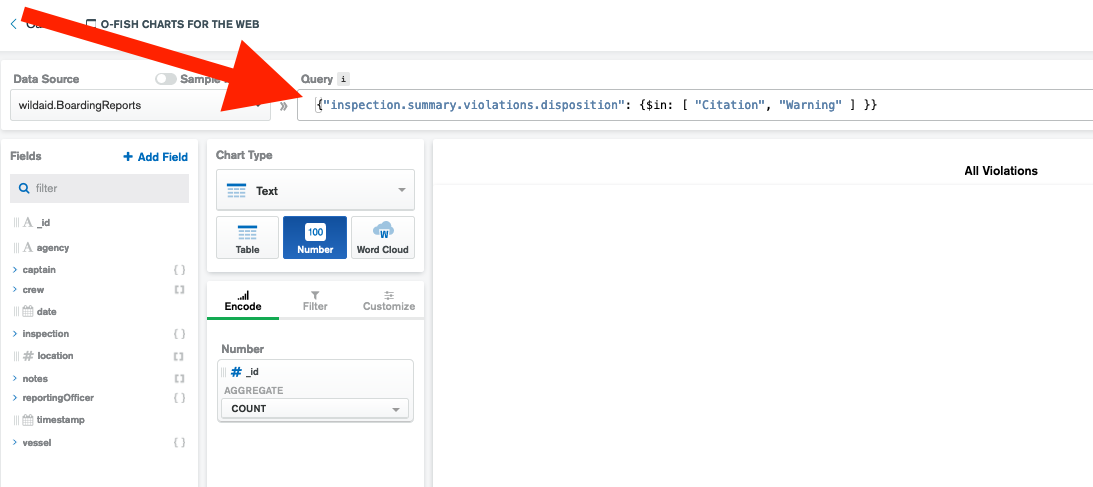
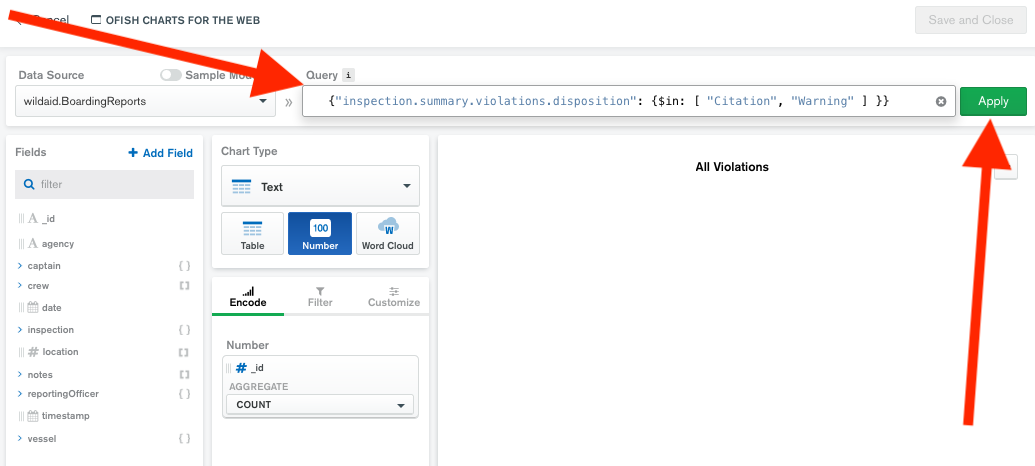
Finished the number compliance charts
Still need to do map and donut chart.

diff --git a/_posts/build_charts/2020-06-12-Create-Compliance2.md b/_posts/build_charts/2020-06-12-Create-Compliance2.md
@@ -1,0 +1,73 @@
+---
+layout: post
+title: "Create Compliance Charts - Percentage"
+date: 2020-06-12 06:00:00 -0400
+categories: charts
+site: build
+---
+
+On this page, you will make the Compliance Rate chart - shown as the percentage below:<BR>
+<img src="/assets/images/ComplianceCharts.png" style="border:1px solid black" width="70%"><BR><BR>
+
+1. On the Charts Dashboard, click "Add Chart"<BR>
+<img src="/assets/images/AddChart.png" style="border:1px solid black" width="70%"><BR><BR>
+
+1. Set the title to "Compliance Rate"<BR>
+<img src="/assets/images/CRTitle.png" style="border:1px solid black" width="100%"><BR><BR>
+1. Set the Data Source to wildaid.BoardingReports
+<img src="/assets/images/ChooseBRDataSource.png" style="border:1px solid black" width="100%"><BR><BR>
+1. Choose a Chart type of Text:
+<img src="/assets/images/TableChartType.png" style="border:1px solid black" width="100%"><BR><BR>
+
+1. Choose a Chart subtype of Number:
+<img src="/assets/images/NumberChart.png" style="border:1px solid black" width="100%"><BR><BR>
+
+1. We need to calculate the percentage of a subset of data as compared to the total amount of data, which we cannot do with a calculated field. However, we can do this with an aggregation, which we can paste into the Query field, and then click "Apply":<BR><BR>
+`[{$group: { _id: null, total: { $sum: 1 },` <BR>
+  `justCompliant: { $sum: { $cond: { ` <BR>
+        `'if': {$and: [ ` <BR>
+          `{$ifNull: ['$inspection.summary.violations.disposition',0]}, ` <BR>
+          `{$or: [ ` <BR>
+          `{$in: ['Warning','$inspection.summary.violations.disposition']}, ` <BR>
+          `{$in: ['Citation','$inspection.summary.violations.disposition']} ` <BR>
+          `] } ] }, ` <BR>
+        `'then': 0, 'else': 1 ` <BR>
+      `} } }` <BR>
+`}}, {$project: {` <BR>
+  `percentage: { $divide: [ '$justCompliant', '$total' ] },` <BR>
+  `inspection: 1, justCompliant: 1, total: 1` <BR>
+`}}]`<BR>
+<img src="/assets/images/ComplianceRateQuery.png" style="border:1px solid black" width="100%"><BR><BR>
+
+1. You will see your fields have changed to an ID and three numbers - justCompliant, percentage, and total:<BR>
+<img src="/assets/images/NewFields.png" style="border:1px solid black" width="50%"><BR><BR>
+
+1. Drag "percentage" to the "Number" field, making sure that the aggregate is by "SUM":<BR>
+<img src="/assets/images/PercentageDrag.png" style="border:1px solid black" width="100%"><BR><BR>
+
+1. The field is in decimal value:<BR>
+<img src="/assets/images/Percentage.png" style="border:1px solid black" width="100%"><BR><BR>
+
+1. Click "Customize", then percentage, then toggle Decimals and set it to 2:<BR>
+<img src="/assets/images/Decimals.png" style="border:1px solid black" width="100%"><BR><BR>
+
+1. Toggle the Multiplier and set it to 100.<BR>
+<img src="/assets/images/Multiplier.png" style="border:1px solid black" width="100%"><BR><BR>
+
+1. Toggle the Suffix and set it to be %:<BR>
+<img src="/assets/images/Suffix.png" style="border:1px solid black" width="100%"><BR><BR>
+
+And you should see the percentage in the window. Click "Save and Close"
+<img src="/assets/images/CloseSave.png" style="border:1px solid black" width="100%"><BR><BR>
+
+1. On your dashboard, mouse over the chart until you see the ellipses. Click on the ellipses and select "Embed Chart":
+<img src="/assets/images/ClickBCEmbedMenu.png" style="border:1px solid black" width="100%"><BR><BR>
+
+1. Select the "Authenticated" section, and make sure "Enabled authenticated access" is set to "ON", and copy the Chart ID:
+<img src="/assets/images/CopyBDChart.png" style="border:1px solid black" width="100%"><BR><BR>
+
+1. Select "Close" to close the "Embed Chart" window.<BR><BR>
+
+1. Paste the Chart ID into your web application's src/config.js file under "compliance-rate".<BR><BR><BR><BR>
+
+Onward to the donut chart!

diff --git a/_posts/build_charts/2020-06-12-Create-Compliance.md b/_posts/build_charts/2020-06-12-Create-Compliance.md
@@ -1,12 +1,12 @@
 ---
 layout: post
-title: "Create Compliance Charts"
+title: "Create Compliance Charts - Numbers"
 date: 2020-06-12 05:00:00 -0400
 categories: charts
 site: build
 ---
 
-Following this guide you will make the Compliance charts, which are three charts that are numbers, and one donut chart.<BR>
+On this page, you will make two of the following Compliance Charts - specifically, the two numbers - Boardings and Violations (Citations and warnigs):<BR>
 <img src="/assets/images/ComplianceCharts.png" style="border:1px solid black" width="70%"><BR><BR>
 
 1. First, let's create the "Boardings" number. On the Charts Dashboard, click "Add Chart"
@@ -29,8 +29,11 @@ And you should see the total number of boarding reports in the window. Click "Sa
 
 1. On your dashboard, mouse over the chart until you see the ellipses. Click on the ellipses and select "Embed Chart":
 <img src="/assets/images/ClickBCEmbedMenu.png" style="border:1px solid black" width="100%"><BR><BR>
-1. Click "Authenticated" and copy the Chart ID for this chart
+
+1. Select the "Authenticated" section, and make sure "Enabled authenticated access" is set to "ON", and copy the Chart ID:
 <img src="/assets/images/CopyBDChart.png" style="border:1px solid black" width="100%"><BR><BR>
+
+1. Select "Close" to close the "Embed Chart" window.<BR><BR>
 
 1. Paste the Chart ID into your web application's src/config.js file under "boardings-count-chart".<BR><BR><BR><BR>
 
@@ -50,21 +53,19 @@ And you should see the total number of boarding reports in the window. Click "Sa
 1. Drag _id to the "Number" field and make sure the aggregation method is "COUNT":
 <img src="/assets/images/Count_id.png" style="border:1px solid black" width="100%"><BR><BR>
 
-1. This chart shows all violations, so you want a count of boarding records that have a violation disposition of either Citation or Warning. To do this, paste the following query into the "Query" field at the top:<BR>
+1. This chart shows all violations, so you want a count of boarding records that have a violation disposition of either Citation or Warning. To do this, paste the following query into the "Query" field at the top, and then click "Apply":<BR>
 `{"inspection.summary.violations.disposition": {$in: [ "Citation", "Warning" ] }}`<BR>
 <img src="/assets/images/ViolationsQuery.png" style="border:1px solid black" width="100%"><BR><BR>
 
-You will see the number of boarding reports that have any violation in the window. Click "Save and Close"
+You will see the number of boarding reports that have any violation in the window. Click "Save and Close".
 
 1. On your dashboard, mouse over the chart until you see the ellipses. Click on the ellipses and select "Embed Chart":
 <img src="/assets/images/ClickBCEmbedMenu.png" style="border:1px solid black" width="100%"><BR><BR>
-1. Click "Authenticated" and copy the Chart ID for this chart
+
+1. Select the "Authenticated" section, and make sure "Enabled authenticated access" is set to "ON", and copy the Chart ID:
 <img src="/assets/images/CopyBDChart.png" style="border:1px solid black" width="100%"><BR><BR>
+1. Select "Close" to close the "Embed Chart" window.<BR><BR>
 
 1. Paste the Chart ID into your web application's src/config.js file under "citations-and-warnings"
 
-
-
-Create more charts in the next guide!
-
-Create more charts in the next guide!
+Onward to the percentage!

diff --git a/_posts/build_charts/2020-06-12-Embed-Boardings-List.md b/_posts/build_charts/2020-06-12-Embed-Boardings-List.md
@@ -35,6 +35,8 @@ Now that you have created the Boarding List Chart, let's embed it in your applic
 1. Go back to the Web UI and copy the Chart ID:
 <img src="/assets/images/CopyBDChart.png" style="border:1px solid black" width="100%"><BR><BR>
 
+1. In the Charts UI, click "Close" to close the "Embed Chart" window.<BR><BR>
+
 1. Paste the Chart ID into your web application's src/config.js file under "patrol-hours".
 
 
